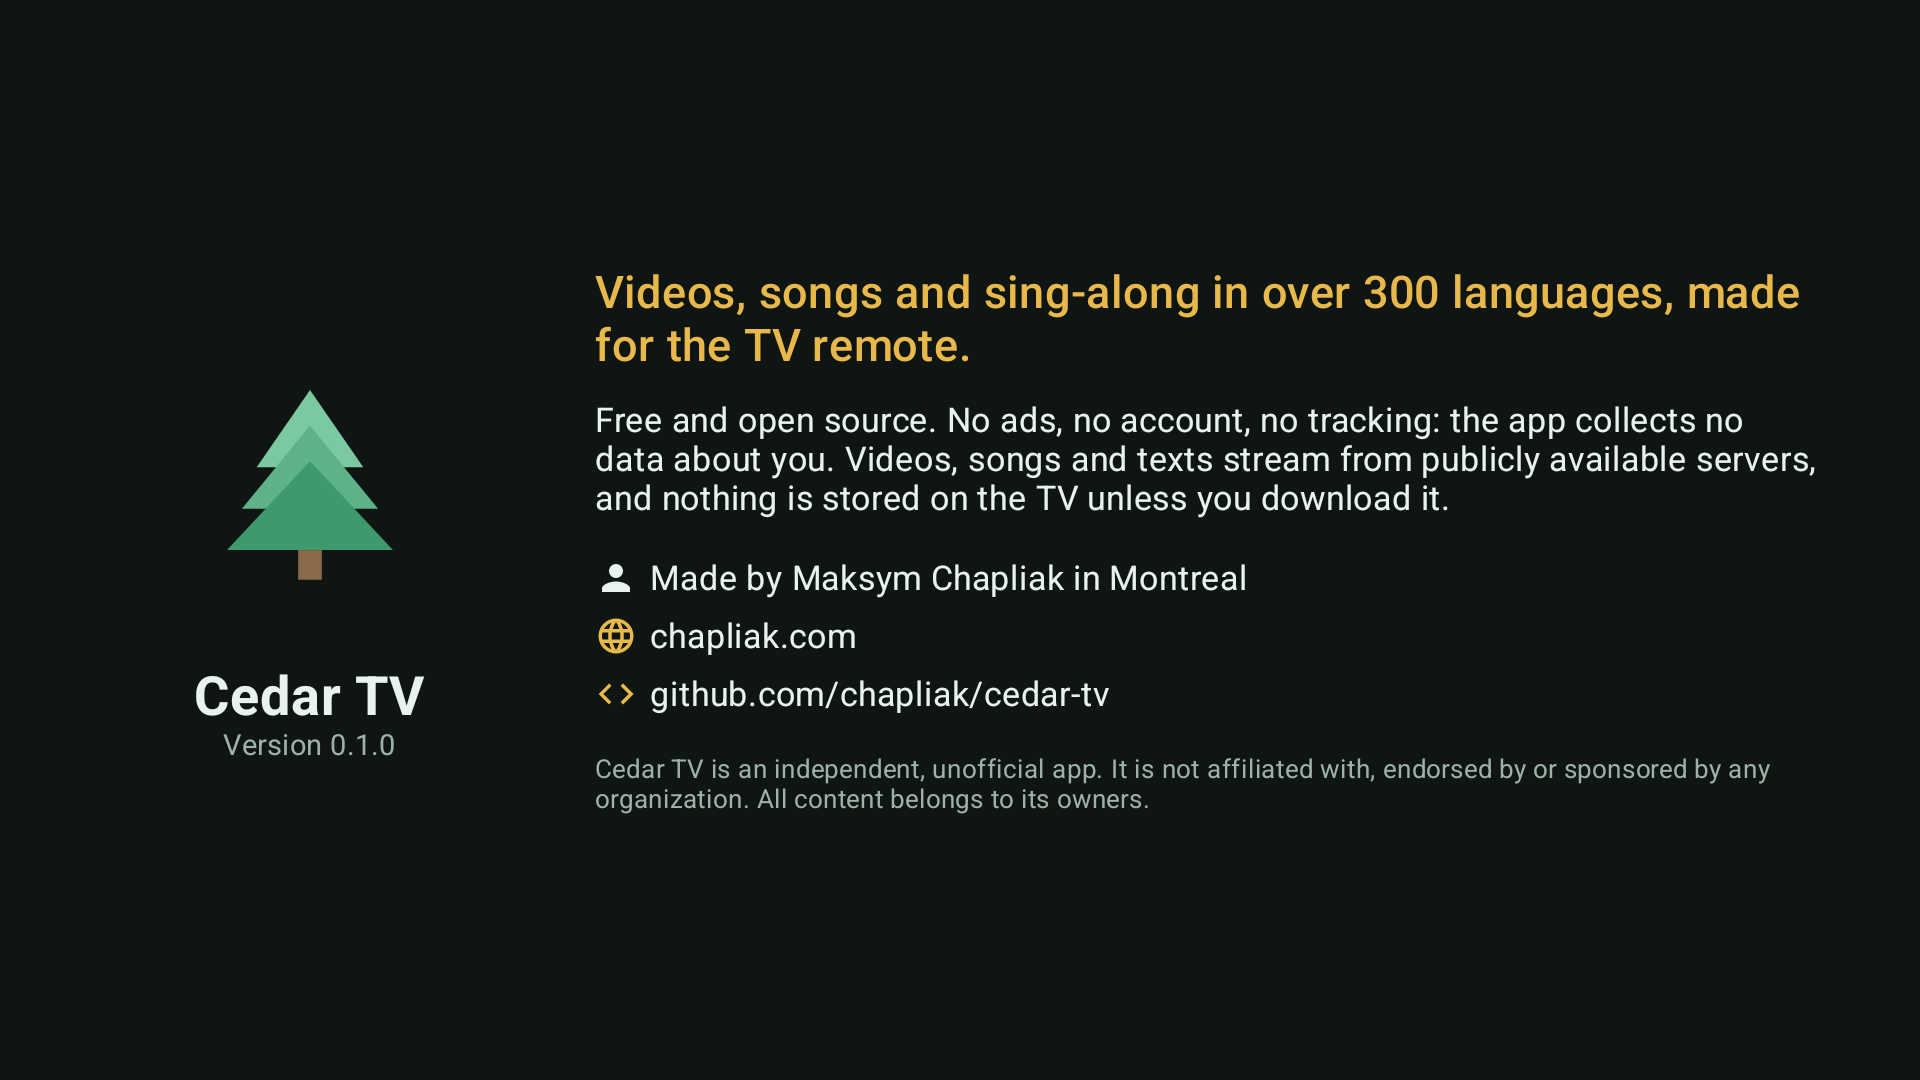
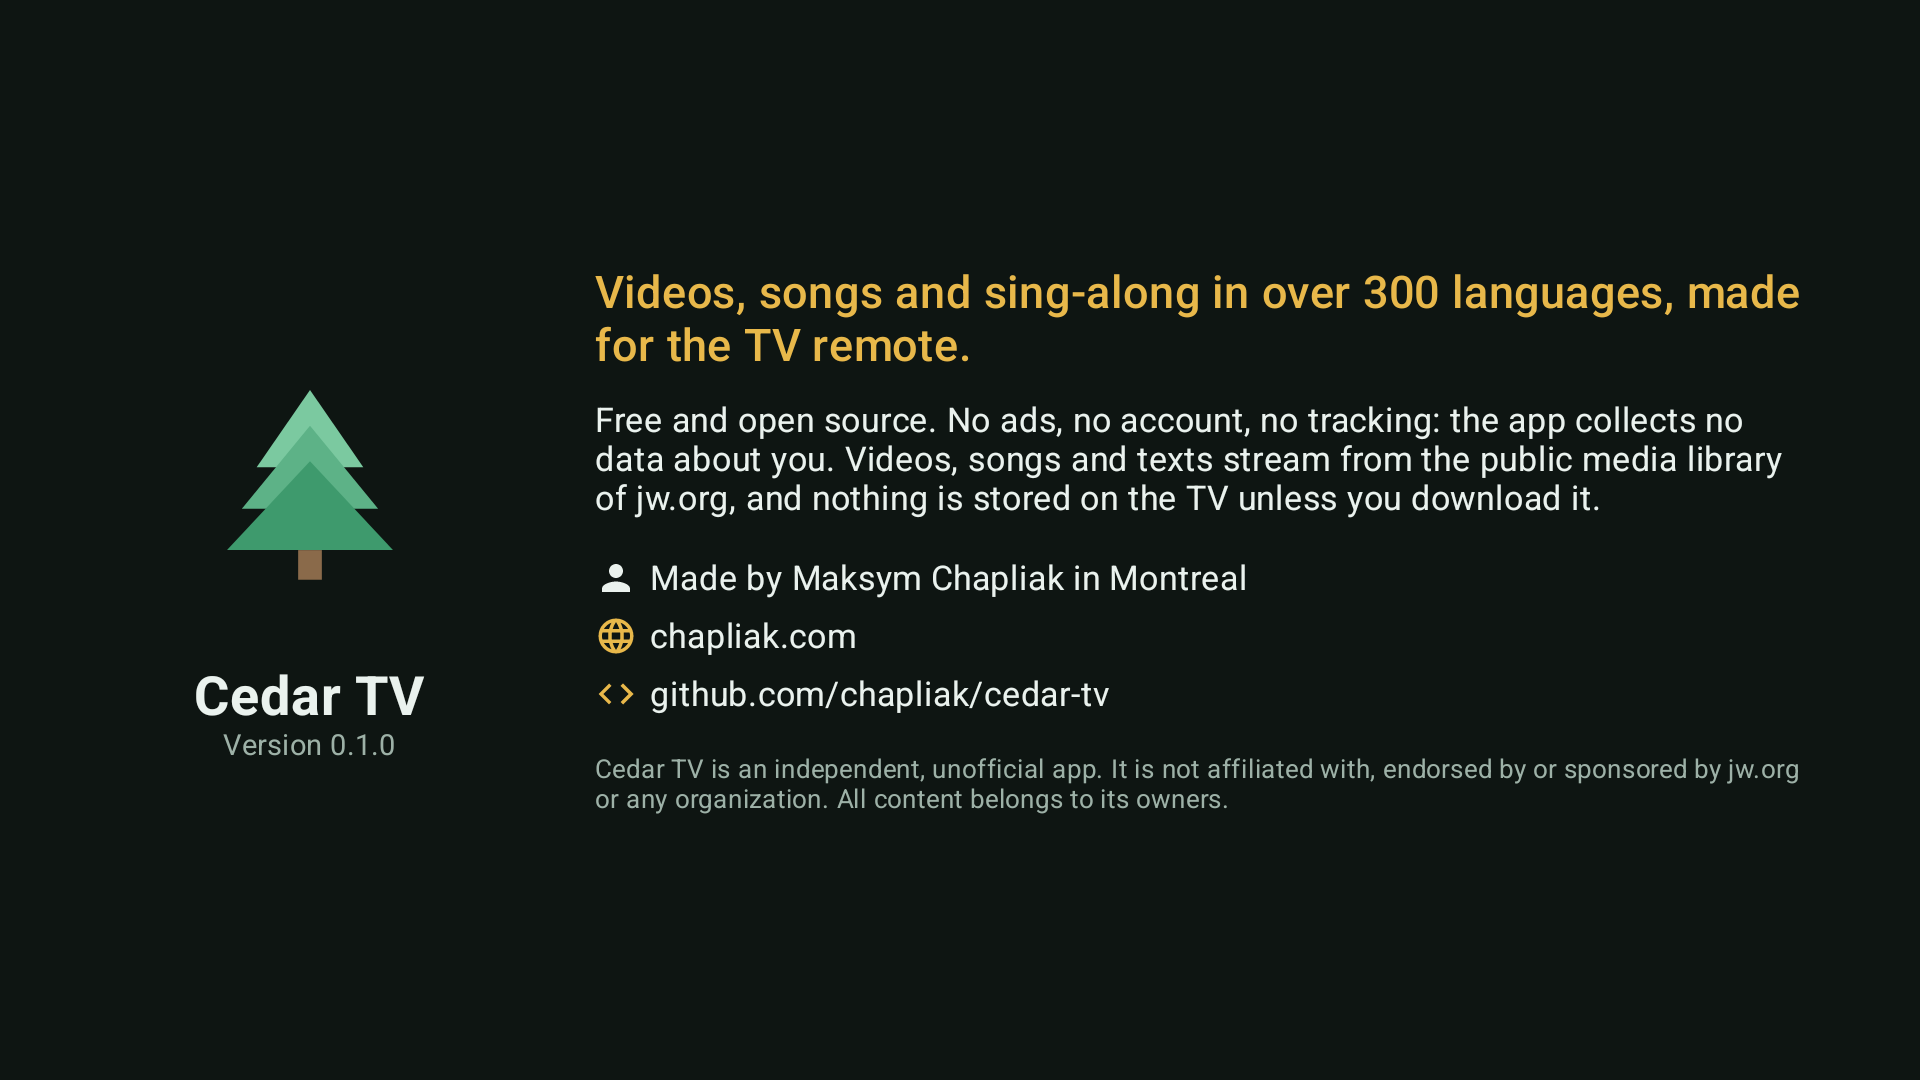
Say the app streams the public jw.org library (README, About, strings)

Changed region(s): [[0.3125, 0.3972, 0.9375, 0.4889], [0.3125, 0.7333, 0.625, 0.7639], [0.9062, 0.7028, 0.9375, 0.7333]]

diff --git a/README.md b/README.md
@@ -7,8 +7,12 @@
   Free · open source · no ads · no account · no tracking
 </p>
 
-> **Unofficial.** Cedar TV is an independent hobby project. It is not affiliated with, endorsed by or sponsored by any
-> organization. All videos, songs, texts and images belong to their owners and are streamed from publicly available servers.
+Cedar TV streams the free public media library of [jw.org](https://www.jw.org) (videos, JW Broadcasting, talks, songs and
+audio) on your TV, with a player and interface built for the remote.
+
+> **Unofficial.** Cedar TV is an independent hobby project. It is not affiliated with, endorsed by or sponsored by
+> jw.org or any organization, and the name "Cedar TV" is not theirs. All videos, songs, texts and images belong to their
+> owners and are streamed from their public servers; nothing is hosted here.
 
 ## Screenshots
 
